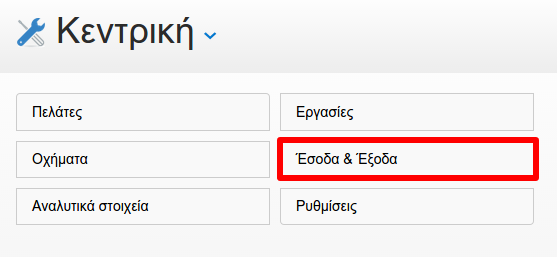
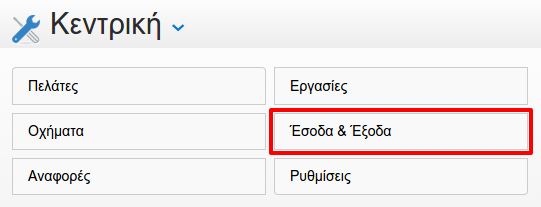
update locales
- rename "Analytics" to "Reports"

diff --git a/docs/source/reports/index.rst b/docs/source/reports/index.rst
@@ -1,13 +1,12 @@
-Αναλυτικά Στοιχεία
-==================
+Αναφορές
+========
 
 :λέξεις κλειδιά:
     ``kb_Statistics``
     ``kb_Reports``
     ``kb_Analytics``
 
-Τα αναλυτικά στοιχεία είναι ένα σύνολο από αναφορές
-που στόχο έχουν να σας δώσουν μια συνολική
+Οι αναφορές στόχο έχουν να σας δώσουν μια συνολική
 και "καθαρή ματιά" για το σε τι κατάσταση βρίσκεται η επιχείρησή σας.
 
 Η δυνατότητα αυτή, η παρουσίαση των αναφορών δηλαδή, είναι πολύ σημαντική

diff --git a/docs/source/index.rst b/docs/source/index.rst
@@ -21,7 +21,7 @@ GarageApp - Υποστήριξη
     vehicles/index.rst
     services/index.rst
     revenues_expenses/index.rst
-    analytics/index.rst
+    reports/index.rst
     settings/index.rst
     .. subscriptions/index.rst # temporarily hiding this article; justification: PayPal subscriptions are not released yet
     mozilla_persona.rst
